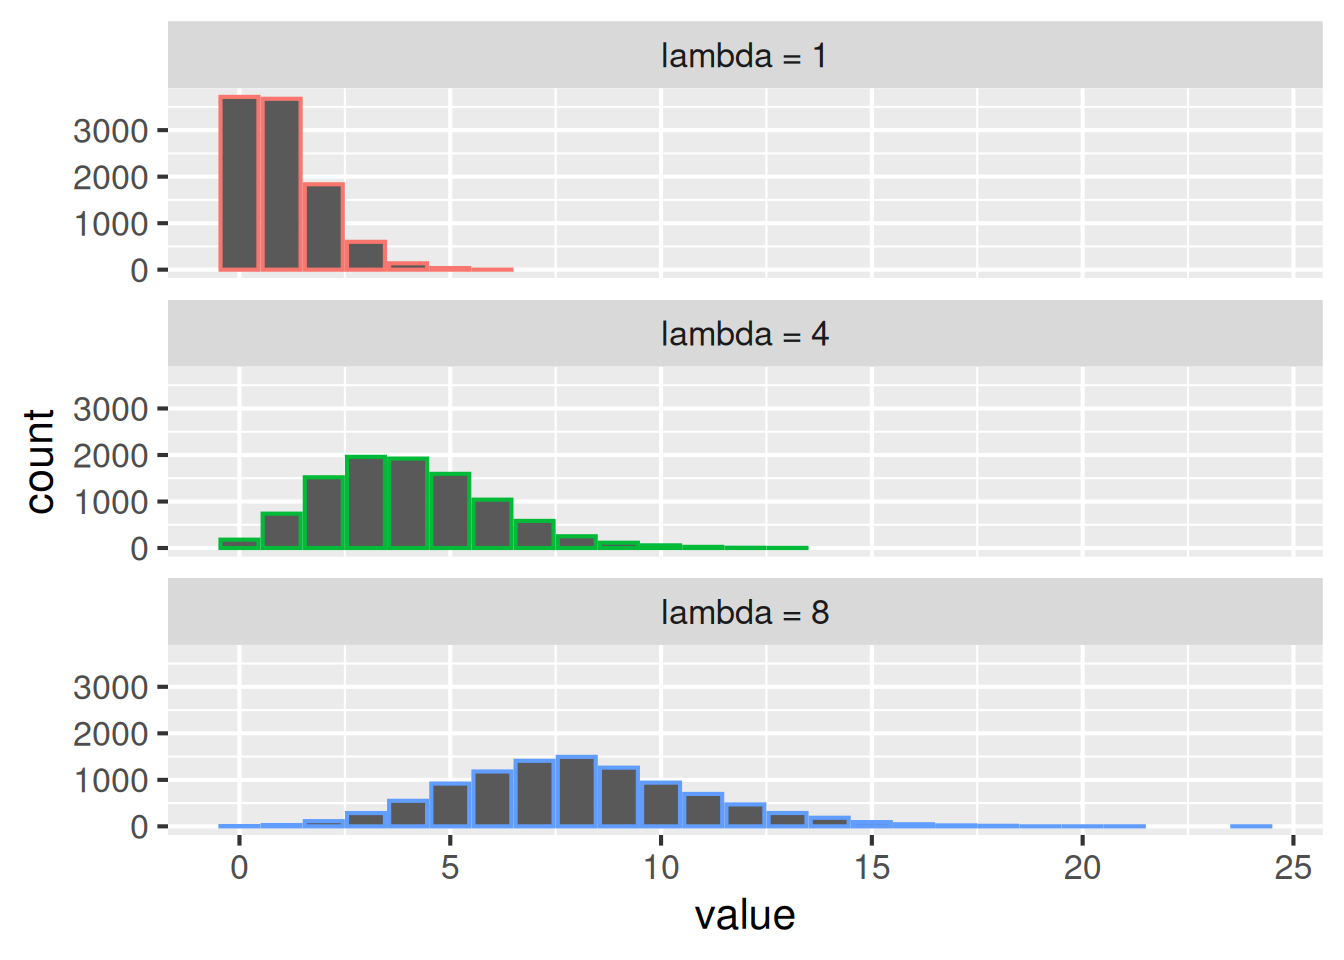
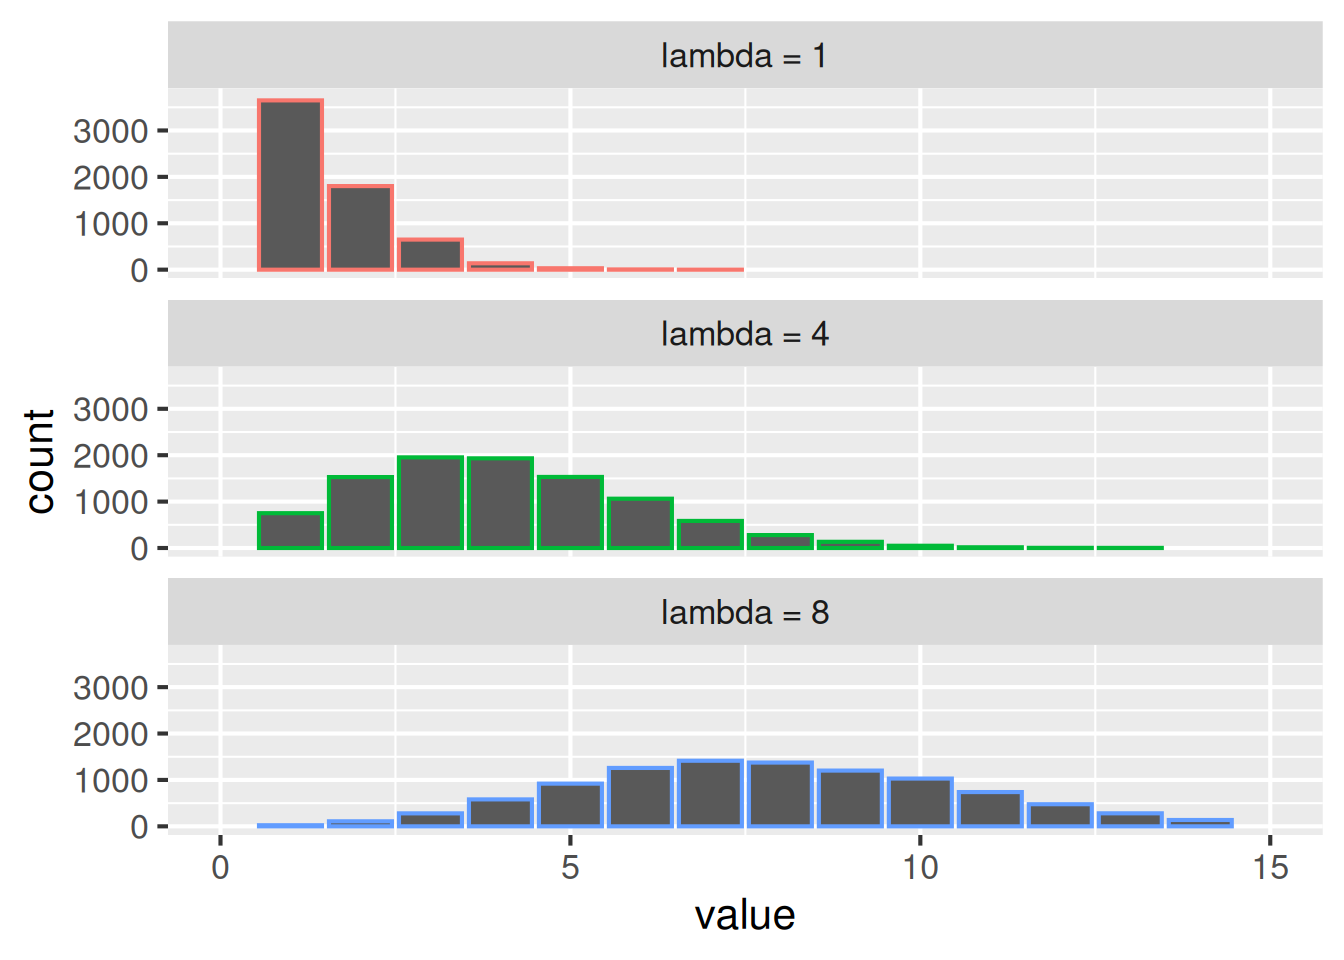
typos and x-axis limits

diff --git a/docs/statdist-r.html b/docs/statdist-r.html
@@ -198,7 +198,7 @@ pre > code.sourceCode > span > a:first-child::before { text-decoration: underlin
 </header>
 
 
-<p>While writing the [Randomness Concept][concept-randomness] for the Exercism learning syllabus, there was some uncertainty about what all the various R functions do. Here, we demonstrate several them in action.</p>
+<p>While writing the <a href="https://exercism.org/tracks/r/concepts/randomness">Randomness Concept</a> for the Exercism learning syllabus, there was some uncertainty about what all the various R functions do. Here, we demonstrate several them in action.</p>
 <p>The <code>q*()</code> functions, to generate the quantiles, are not (yet) included.</p>
 <p>First, we need the Tidyverse libraries and some default settings:</p>
 <div class="cell" title="imports">
@@ -279,7 +279,12 @@ pre > code.sourceCode > span > a:first-child::before { text-decoration: underlin
 <section id="generating-random-values-with-rnorm" class="level3">
 <h3 class="anchored" data-anchor-id="generating-random-values-with-rnorm">Generating random values with <code>rnorm()</code></h3>
 <p>The <code>rnorm()</code> function generates random values which are normally distributed.</p>
-<p>Here, we get 10,000 values, using a frequency polygon to bin them, and count number in each bin for the <code>y</code> axis.</p>
+<p>Here, we:</p>
+<ul>
+<li>get 10,000 values</li>
+<li>use a frequency polygon to bin them</li>
+<li>plot counts of the number in each bin on the <code>y</code> axis.</li>
+</ul>
 <div class="cell" title="random normal">
 <details class="code-fold">
 <summary>Code</summary>
@@ -296,8 +301,9 @@ pre > code.sourceCode > span > a:first-child::before { text-decoration: underlin
 <span id="cb4-11"><a href="#cb4-11" aria-hidden="true" tabindex="-1"></a>  ) <span class="sc">|&gt;</span></span>
 <span id="cb4-12"><a href="#cb4-12" aria-hidden="true" tabindex="-1"></a>  <span class="fu">ggplot</span>(<span class="fu">aes</span>(value, <span class="at">color =</span> SD)) <span class="sc">+</span> </span>
 <span id="cb4-13"><a href="#cb4-13" aria-hidden="true" tabindex="-1"></a>    <span class="fu">geom_freqpoly</span>(<span class="at">binwidth =</span> <span class="fl">0.05</span>) <span class="sc">+</span></span>
-<span id="cb4-14"><a href="#cb4-14" aria-hidden="true" tabindex="-1"></a>    <span class="fu">facet_wrap</span>(<span class="sc">~</span>SD, <span class="at">ncol =</span> <span class="dv">1</span>) <span class="sc">+</span></span>
-<span id="cb4-15"><a href="#cb4-15" aria-hidden="true" tabindex="-1"></a>    <span class="fu">theme</span>(<span class="at">legend.position =</span> <span class="st">"none"</span>)</span></code></pre></div><button title="Copy to Clipboard" class="code-copy-button"><i class="bi"></i></button></div>
+<span id="cb4-14"><a href="#cb4-14" aria-hidden="true" tabindex="-1"></a>    <span class="fu">xlim</span>(<span class="sc">-</span><span class="dv">4</span>, <span class="dv">4</span>) <span class="sc">+</span></span>
+<span id="cb4-15"><a href="#cb4-15" aria-hidden="true" tabindex="-1"></a>    <span class="fu">facet_wrap</span>(<span class="sc">~</span>SD, <span class="at">ncol =</span> <span class="dv">1</span>) <span class="sc">+</span></span>
+<span id="cb4-16"><a href="#cb4-16" aria-hidden="true" tabindex="-1"></a>    <span class="fu">theme</span>(<span class="at">legend.position =</span> <span class="st">"none"</span>)</span></code></pre></div><button title="Copy to Clipboard" class="code-copy-button"><i class="bi"></i></button></div>
 </details>
 <div class="cell-output-display">
 <div>
@@ -355,19 +361,20 @@ pre > code.sourceCode > span > a:first-child::before { text-decoration: underlin
 <summary>Code</summary>
 <div class="code-copy-outer-scaffold"><div class="sourceCode cell-code" id="cb6"><pre class="sourceCode r code-with-copy"><code class="sourceCode r"><span id="cb6-1"><a href="#cb6-1" aria-hidden="true" tabindex="-1"></a><span class="fu">tibble</span>(</span>
 <span id="cb6-2"><a href="#cb6-2" aria-hidden="true" tabindex="-1"></a>  <span class="st">"x"</span> <span class="ot">=</span> <span class="dv">0</span><span class="sc">:</span><span class="dv">20</span>,</span>
-<span id="cb6-3"><a href="#cb6-3" aria-hidden="true" tabindex="-1"></a>  <span class="st">"p = 0.4"</span> <span class="ot">=</span> <span class="fu">pbinom</span>(x, <span class="at">size =</span> <span class="dv">20</span>, <span class="at">prob =</span> <span class="fl">0.4</span>),</span>
-<span id="cb6-4"><a href="#cb6-4" aria-hidden="true" tabindex="-1"></a>  <span class="st">"p = 0.5"</span> <span class="ot">=</span> <span class="fu">pbinom</span>(x, <span class="at">size =</span> <span class="dv">20</span>, <span class="at">prob =</span> <span class="fl">0.5</span>),</span>
-<span id="cb6-5"><a href="#cb6-5" aria-hidden="true" tabindex="-1"></a>  <span class="st">"p = 0.6"</span> <span class="ot">=</span> <span class="fu">pbinom</span>(x, <span class="at">size =</span> <span class="dv">20</span>, <span class="at">prob =</span> <span class="fl">0.6</span>)</span>
-<span id="cb6-6"><a href="#cb6-6" aria-hidden="true" tabindex="-1"></a>)  <span class="sc">|&gt;</span></span>
-<span id="cb6-7"><a href="#cb6-7" aria-hidden="true" tabindex="-1"></a>  <span class="fu">pivot_longer</span>(</span>
-<span id="cb6-8"><a href="#cb6-8" aria-hidden="true" tabindex="-1"></a>    <span class="at">cols =</span> <span class="fu">starts_with</span>(<span class="st">"p = "</span>),</span>
-<span id="cb6-9"><a href="#cb6-9" aria-hidden="true" tabindex="-1"></a>    <span class="at">names_to =</span> <span class="st">"p"</span>,</span>
-<span id="cb6-10"><a href="#cb6-10" aria-hidden="true" tabindex="-1"></a>    <span class="at">values_to =</span> <span class="st">"value"</span></span>
-<span id="cb6-11"><a href="#cb6-11" aria-hidden="true" tabindex="-1"></a>  ) <span class="sc">|&gt;</span></span>
-<span id="cb6-12"><a href="#cb6-12" aria-hidden="true" tabindex="-1"></a>  <span class="fu">ggplot</span>(<span class="fu">aes</span>(<span class="at">x =</span> x, <span class="at">y =</span> value, <span class="at">color =</span> p)) <span class="sc">+</span></span>
-<span id="cb6-13"><a href="#cb6-13" aria-hidden="true" tabindex="-1"></a>  <span class="fu">geom_col</span>() <span class="sc">+</span></span>
-<span id="cb6-14"><a href="#cb6-14" aria-hidden="true" tabindex="-1"></a>  <span class="fu">facet_wrap</span>(<span class="sc">~</span>p, <span class="at">ncol =</span> <span class="dv">1</span>) <span class="sc">+</span></span>
-<span id="cb6-15"><a href="#cb6-15" aria-hidden="true" tabindex="-1"></a>  <span class="fu">theme</span>(<span class="at">legend.position =</span> <span class="st">"none"</span>)</span></code></pre></div><button title="Copy to Clipboard" class="code-copy-button"><i class="bi"></i></button></div>
+<span id="cb6-3"><a href="#cb6-3" aria-hidden="true" tabindex="-1"></a>  <span class="st">"p = 0.4"</span> <span class="ot">=</span> <span class="fu">pbinom</span>(x, <span class="at">size =</span> <span class="dv">20</span>, <span class="at">prob =</span> <span class="fl">0.4</span>),<span class="co">#| warning: false</span></span>
+<span id="cb6-4"><a href="#cb6-4" aria-hidden="true" tabindex="-1"></a></span>
+<span id="cb6-5"><a href="#cb6-5" aria-hidden="true" tabindex="-1"></a>  <span class="st">"p = 0.5"</span> <span class="ot">=</span> <span class="fu">pbinom</span>(x, <span class="at">size =</span> <span class="dv">20</span>, <span class="at">prob =</span> <span class="fl">0.5</span>),</span>
+<span id="cb6-6"><a href="#cb6-6" aria-hidden="true" tabindex="-1"></a>  <span class="st">"p = 0.6"</span> <span class="ot">=</span> <span class="fu">pbinom</span>(x, <span class="at">size =</span> <span class="dv">20</span>, <span class="at">prob =</span> <span class="fl">0.6</span>)</span>
+<span id="cb6-7"><a href="#cb6-7" aria-hidden="true" tabindex="-1"></a>)  <span class="sc">|&gt;</span></span>
+<span id="cb6-8"><a href="#cb6-8" aria-hidden="true" tabindex="-1"></a>  <span class="fu">pivot_longer</span>(</span>
+<span id="cb6-9"><a href="#cb6-9" aria-hidden="true" tabindex="-1"></a>    <span class="at">cols =</span> <span class="fu">starts_with</span>(<span class="st">"p = "</span>),</span>
+<span id="cb6-10"><a href="#cb6-10" aria-hidden="true" tabindex="-1"></a>    <span class="at">names_to =</span> <span class="st">"p"</span>,</span>
+<span id="cb6-11"><a href="#cb6-11" aria-hidden="true" tabindex="-1"></a>    <span class="at">values_to =</span> <span class="st">"value"</span></span>
+<span id="cb6-12"><a href="#cb6-12" aria-hidden="true" tabindex="-1"></a>  ) <span class="sc">|&gt;</span></span>
+<span id="cb6-13"><a href="#cb6-13" aria-hidden="true" tabindex="-1"></a>  <span class="fu">ggplot</span>(<span class="fu">aes</span>(<span class="at">x =</span> x, <span class="at">y =</span> value, <span class="at">color =</span> p)) <span class="sc">+</span></span>
+<span id="cb6-14"><a href="#cb6-14" aria-hidden="true" tabindex="-1"></a>  <span class="fu">geom_col</span>() <span class="sc">+</span></span>
+<span id="cb6-15"><a href="#cb6-15" aria-hidden="true" tabindex="-1"></a>  <span class="fu">facet_wrap</span>(<span class="sc">~</span>p, <span class="at">ncol =</span> <span class="dv">1</span>) <span class="sc">+</span></span>
+<span id="cb6-16"><a href="#cb6-16" aria-hidden="true" tabindex="-1"></a>  <span class="fu">theme</span>(<span class="at">legend.position =</span> <span class="st">"none"</span>)</span></code></pre></div><button title="Copy to Clipboard" class="code-copy-button"><i class="bi"></i></button></div>
 </details>
 <div class="cell-output-display">
 <div>
@@ -412,7 +419,7 @@ pre > code.sourceCode > span > a:first-child::before { text-decoration: underlin
 <section id="poisson-distribution" class="level2">
 <h2 class="anchored" data-anchor-id="poisson-distribution">Poisson Distribution</h2>
 <p>Here we use the example of how many meteorites at least 1m in diameter strike the Earth each year.</p>
-<p>The <code>lambda</code> values are different assumptions for the <em>average</em> number. The [Catalina Sky Survey][web-catalina] discuss this and estimate such strikes happen “every few months”, so <code>lambda = 4</code> is a reasonable guess.</p>
+<p>The <code>lambda</code> values are different assumptions for the <em>average</em> number. The <a href="https://catalina.lpl.arizona.edu/faq">Catalina Sky Survey</a> discuss this and estimate such strikes happen “every few months”, so <code>lambda = 4</code> is a reasonable guess.</p>
 <section id="the-poisson-probability-density-function" class="level3">
 <h3 class="anchored" data-anchor-id="the-poisson-probability-density-function">The Poisson Probability Density Function</h3>
 <div class="cell" title="Poisson PDF">
@@ -491,8 +498,9 @@ pre > code.sourceCode > span > a:first-child::before { text-decoration: underlin
 <span id="cb10-11"><a href="#cb10-11" aria-hidden="true" tabindex="-1"></a>  ) <span class="sc">|&gt;</span></span>
 <span id="cb10-12"><a href="#cb10-12" aria-hidden="true" tabindex="-1"></a>  <span class="fu">ggplot</span>(<span class="fu">aes</span>(value, <span class="at">color =</span> lambda)) <span class="sc">+</span> </span>
 <span id="cb10-13"><a href="#cb10-13" aria-hidden="true" tabindex="-1"></a>    <span class="fu">geom_bar</span>() <span class="sc">+</span></span>
-<span id="cb10-14"><a href="#cb10-14" aria-hidden="true" tabindex="-1"></a>    <span class="fu">facet_wrap</span>(<span class="sc">~</span>lambda, <span class="at">ncol =</span> <span class="dv">1</span>) <span class="sc">+</span></span>
-<span id="cb10-15"><a href="#cb10-15" aria-hidden="true" tabindex="-1"></a>    <span class="fu">theme</span>(<span class="at">legend.position =</span> <span class="st">"none"</span>)</span></code></pre></div><button title="Copy to Clipboard" class="code-copy-button"><i class="bi"></i></button></div>
+<span id="cb10-14"><a href="#cb10-14" aria-hidden="true" tabindex="-1"></a>    <span class="fu">xlim</span>(<span class="dv">0</span>, <span class="dv">15</span>) <span class="sc">+</span></span>
+<span id="cb10-15"><a href="#cb10-15" aria-hidden="true" tabindex="-1"></a>    <span class="fu">facet_wrap</span>(<span class="sc">~</span>lambda, <span class="at">ncol =</span> <span class="dv">1</span>) <span class="sc">+</span></span>
+<span id="cb10-16"><a href="#cb10-16" aria-hidden="true" tabindex="-1"></a>    <span class="fu">theme</span>(<span class="at">legend.position =</span> <span class="st">"none"</span>)</span></code></pre></div><button title="Copy to Clipboard" class="code-copy-button"><i class="bi"></i></button></div>
 </details>
 <div class="cell-output-display">
 <div>

diff --git a/README.md b/README.md
@@ -6,7 +6,7 @@ Within the community of Exercism maintainers, those of us who work on the [Julia
 Some of this interest is expressed in the teaching syllabus documents on the Exercism website.
 At the more technical end, we run up against the limits of what Exercism is designed to do.
 
-This GitHub Pages site is an experiment to let us explore the wider capabilities of these three languages: both for our own self-education, and to to provide a "See Also" resource for the minority of student who want to learn more.
+This GitHub Pages site is an experiment to let us explore the wider capabilities of these three languages: both for our own self-education, and to to provide a "See Also" resource for the minority of students who want to learn more.
 
 [exercism]: https://exercism.org
 [ex-julia]: https://exercism.org/tracks/julia
